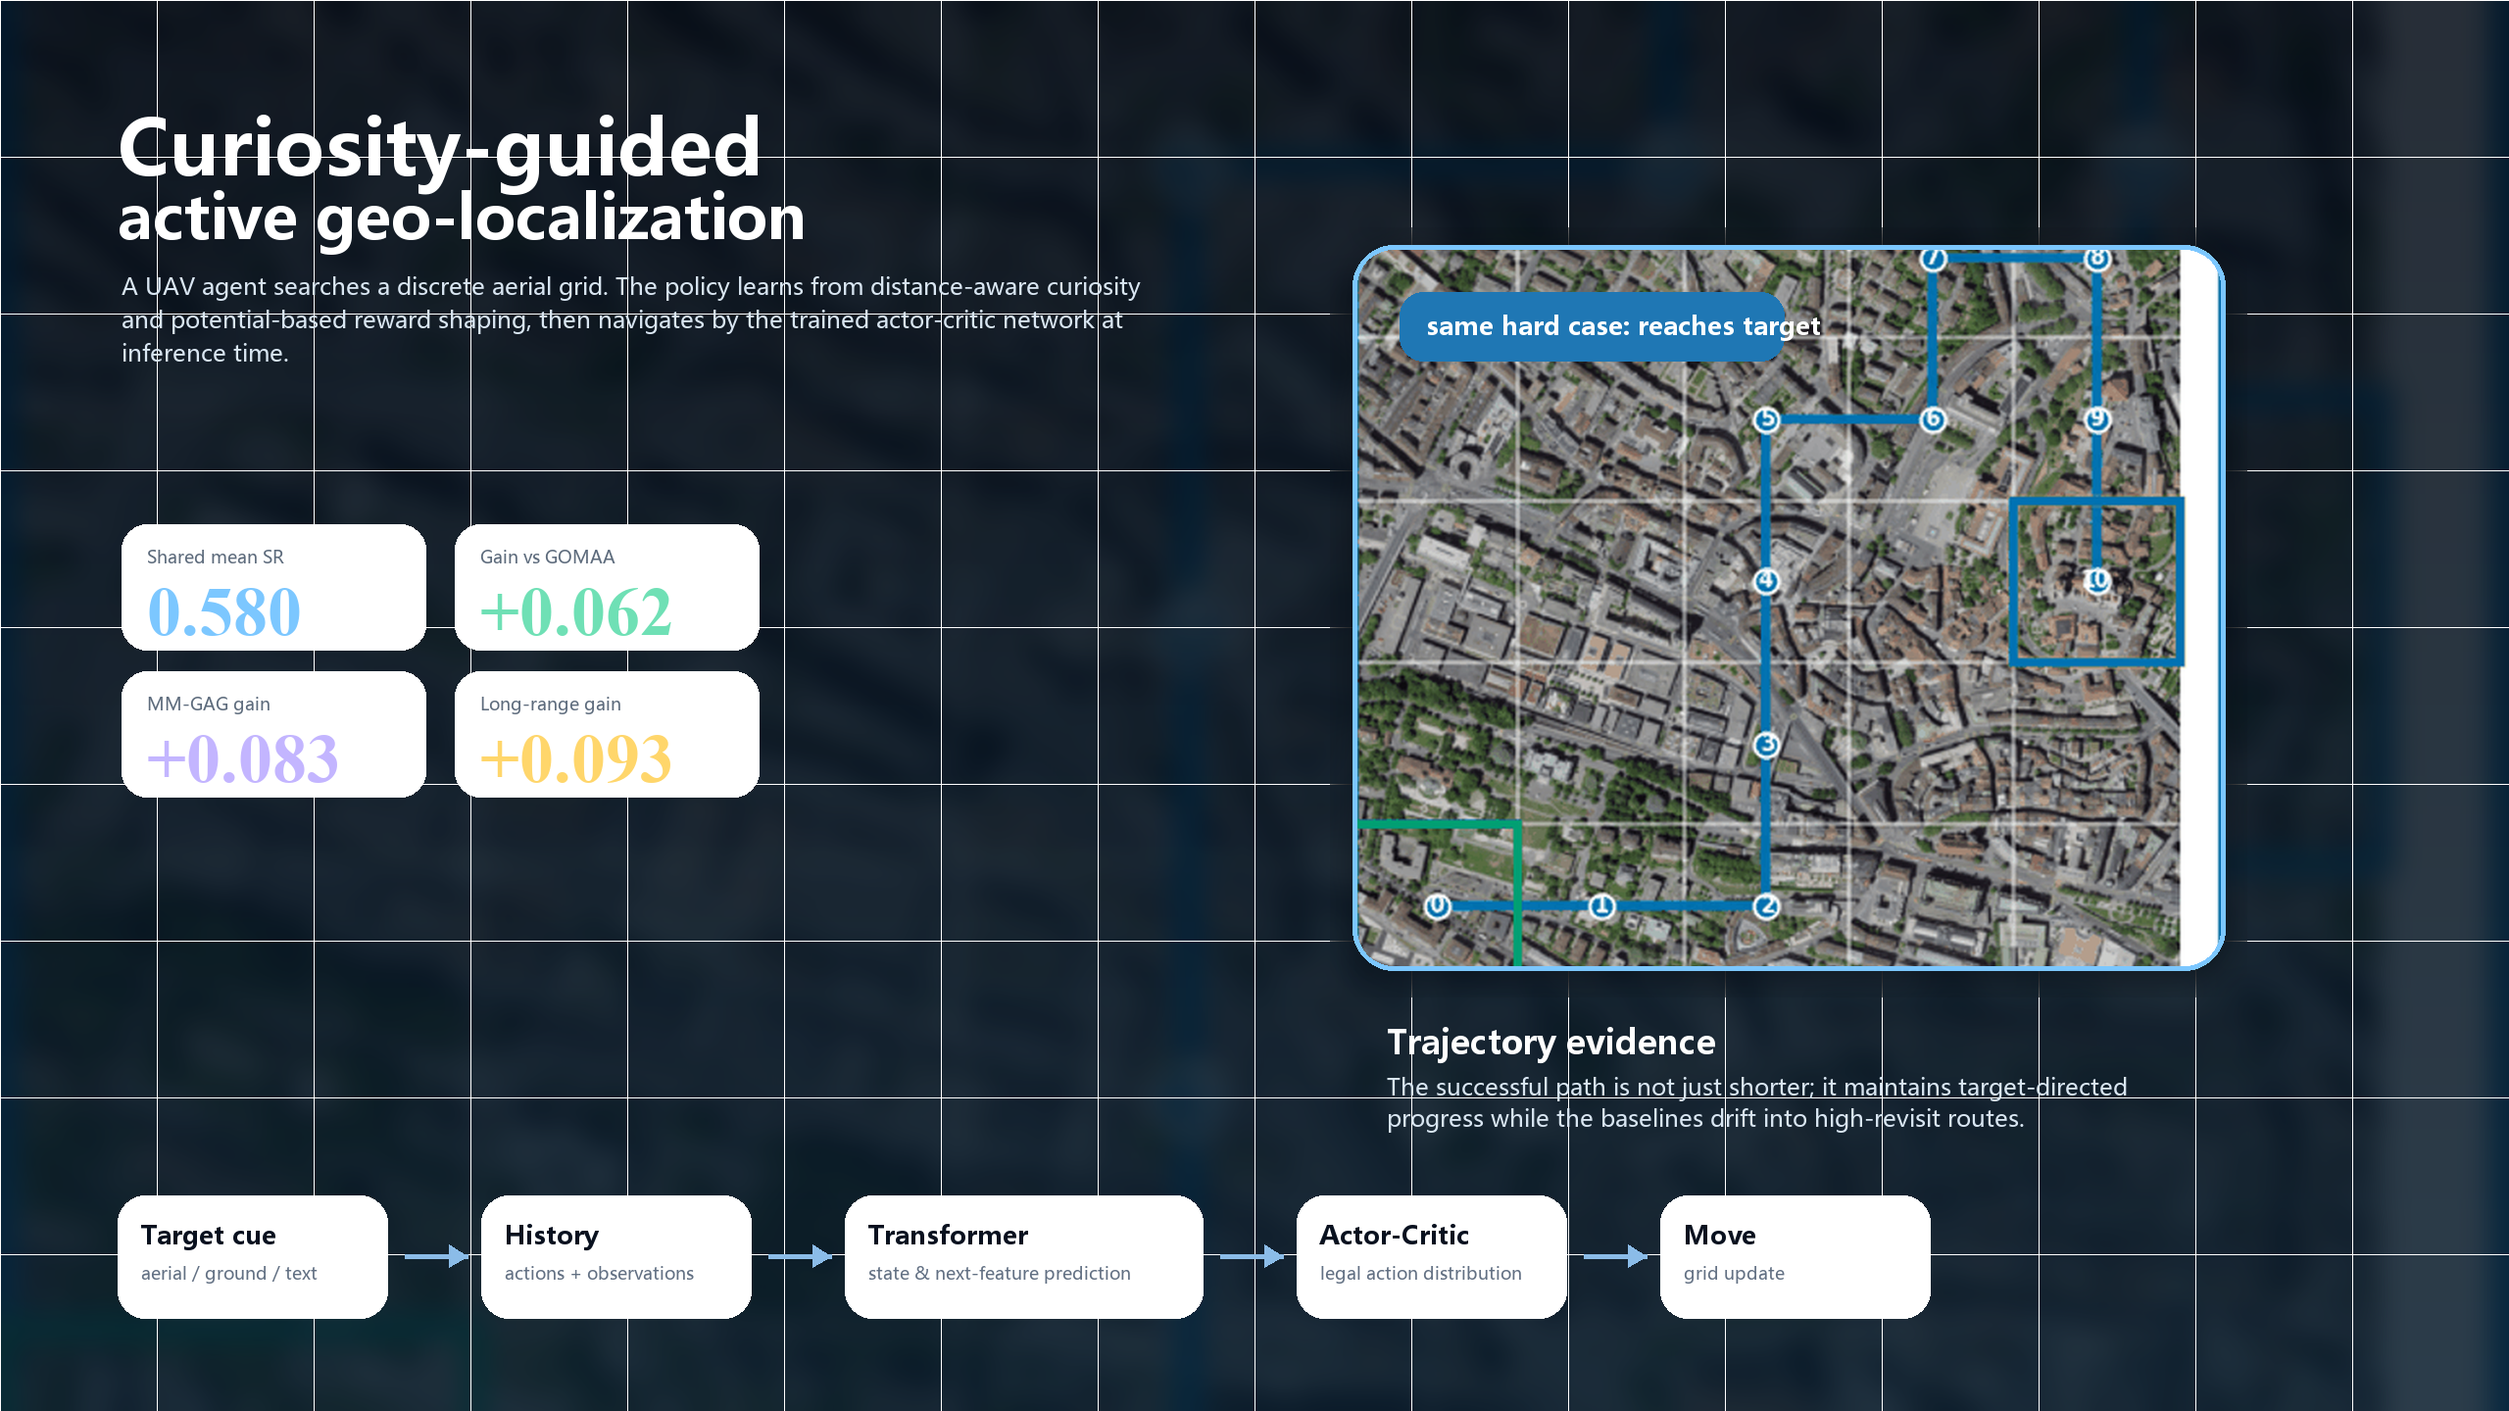
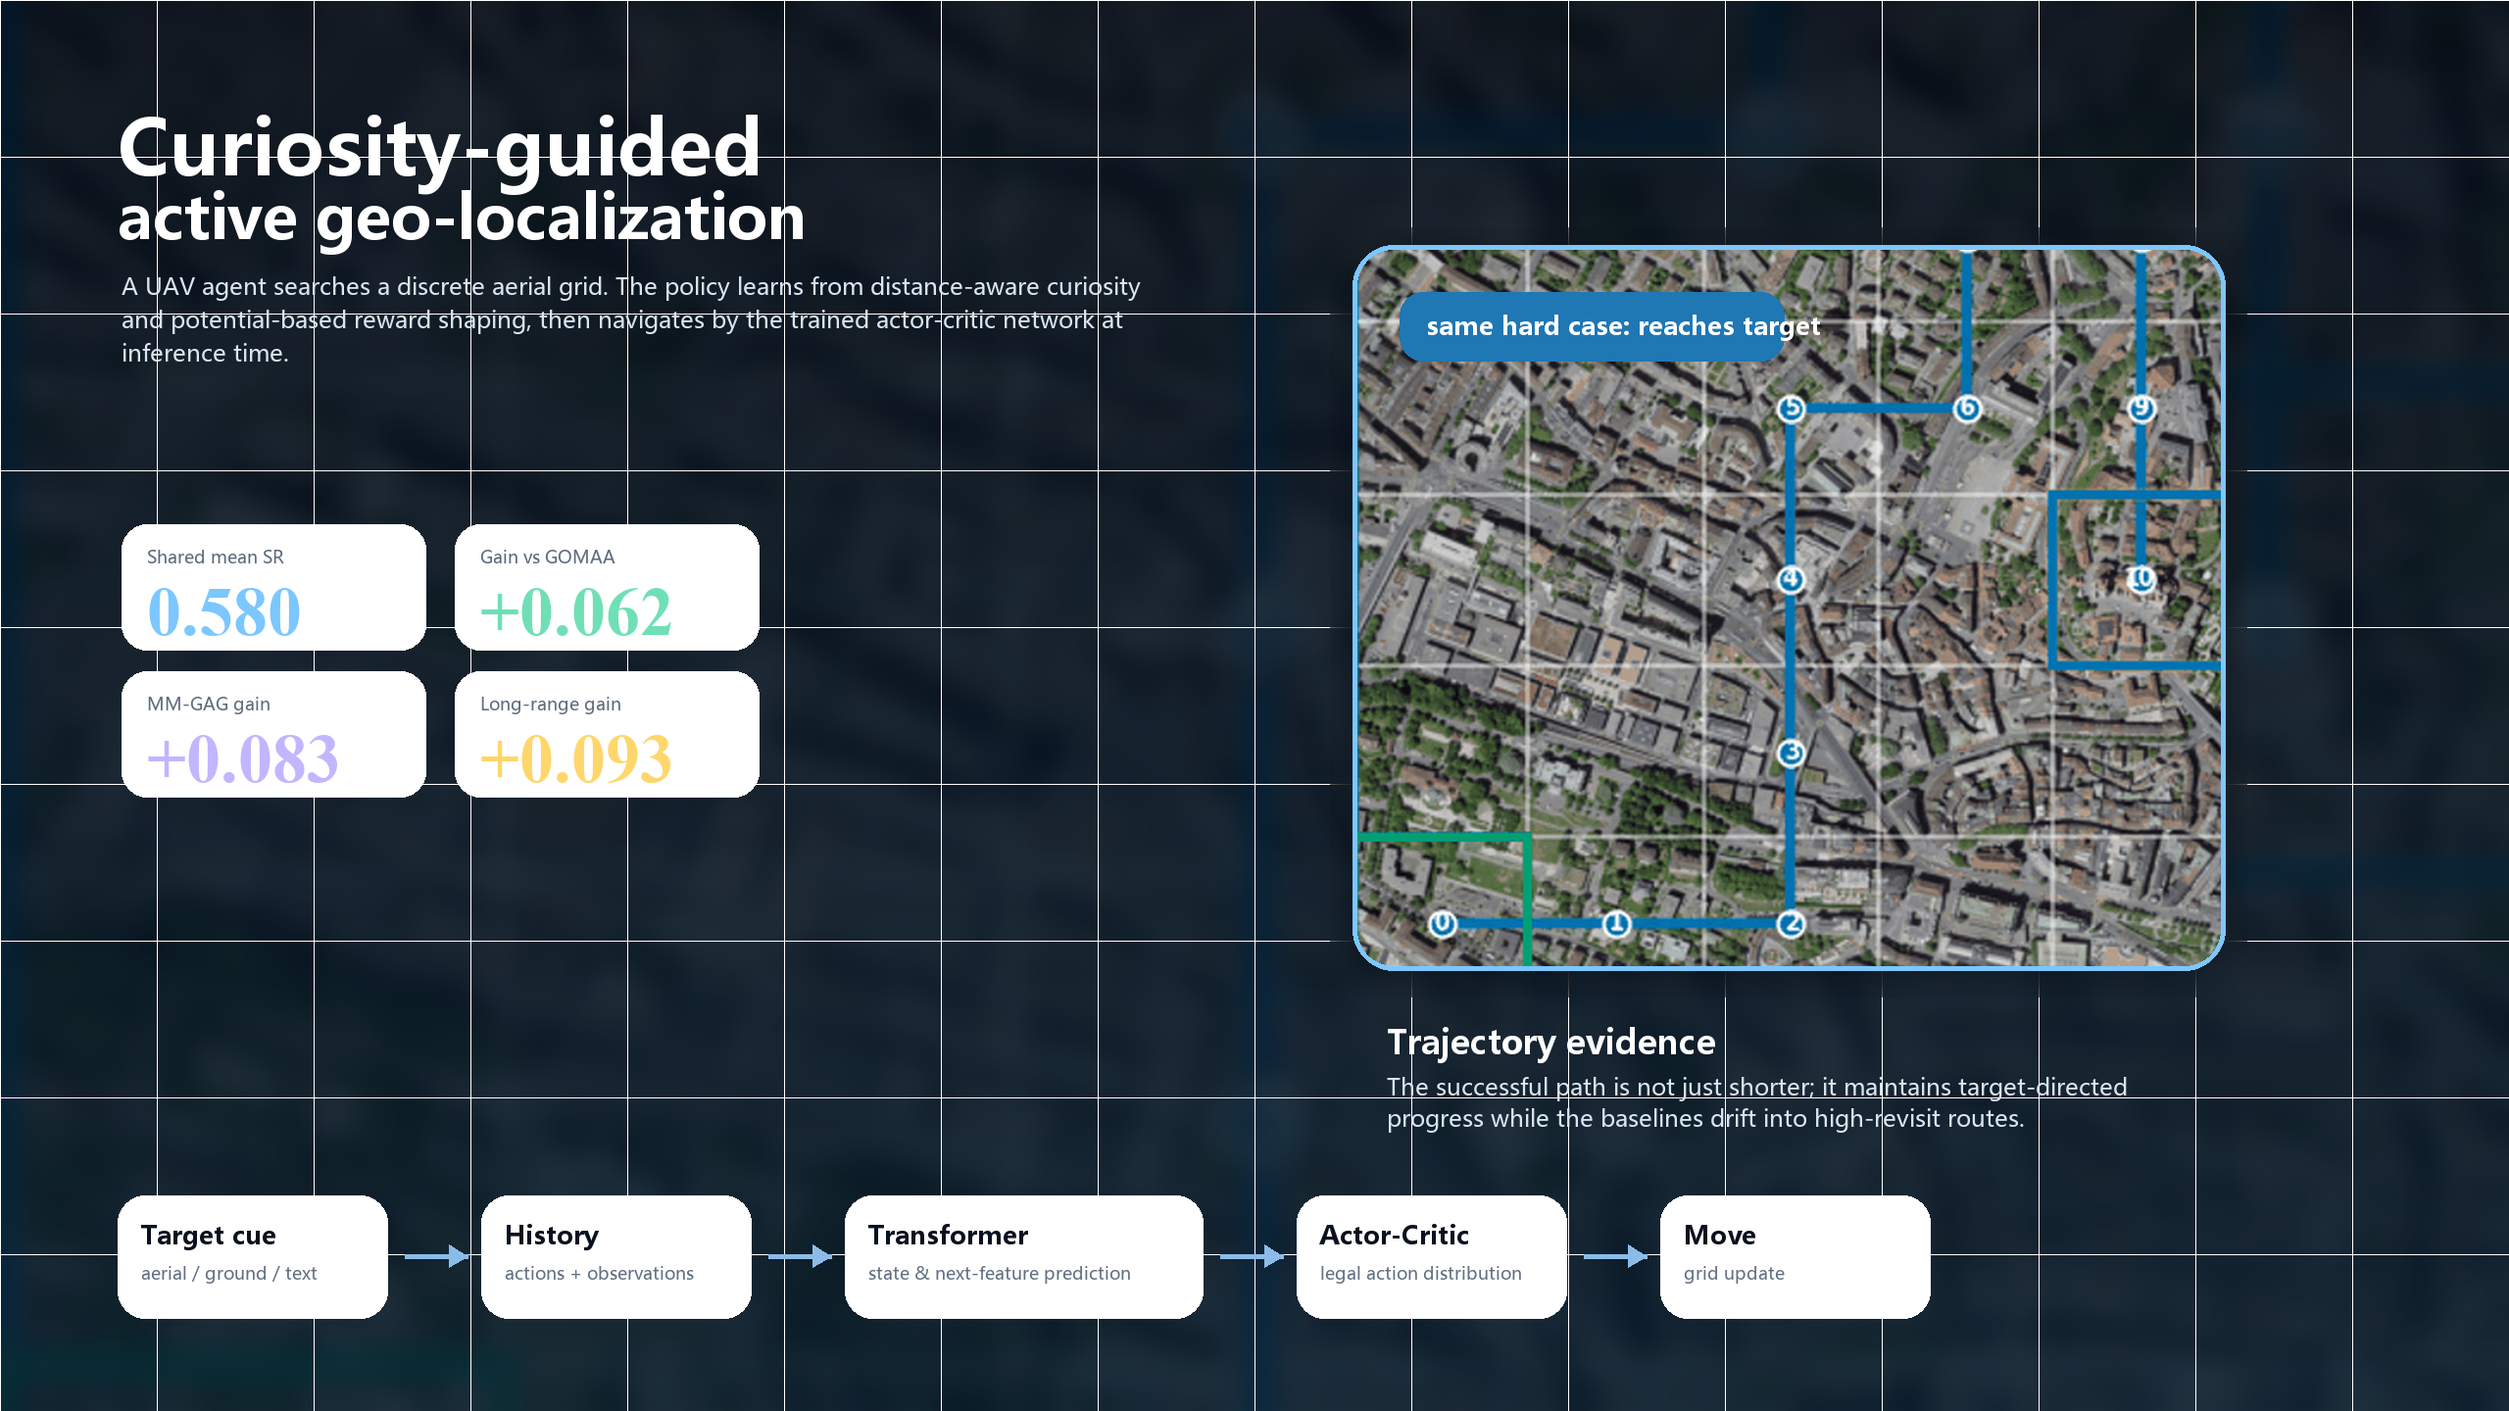
Refine borderless trajectory showcase GIFs

diff --git a/code/tools/build_showcase_experience.py b/code/tools/build_showcase_experience.py
@@ -150,6 +150,17 @@ def fit_contain(im: Image.Image, size: tuple[int, int], bg: str = WHITE) -> Imag
     return out
 
 
+def draw_shadow_text(
+    draw: ImageDraw.ImageDraw,
+    xy: tuple[int, int],
+    text: str,
+    font_obj: ImageFont.ImageFont,
+    fill: str | tuple[int, int, int, int],
+    stroke: int = 2,
+) -> None:
+    draw.text(xy, text, font=font_obj, fill=fill, stroke_width=stroke, stroke_fill=(0, 0, 0, 185))
+
+
 def draw_wrapped(
     draw: ImageDraw.ImageDraw,
     xy: tuple[int, int],
@@ -212,7 +223,7 @@ def load_gif_frames(base: str, suffix: str) -> tuple[list[Image.Image], int]:
 def crop_map_frame(frame: Image.Image) -> Image.Image:
     # The source GIF includes a white title band and border.  Cropping keeps the
     # meaningful aerial evidence and lets the new layout own the labels.
-    return frame.crop((102, 112, 638, 582))
+    return frame.crop((102, 112, 608, 582))
 
 
 def first_last_frames(base: str) -> dict[str, Image.Image]:
@@ -499,29 +510,27 @@ def build_evidence_wall() -> None:
 
 def build_trajectory_storyboard(base: str = "three_method_hardcase__img189_d6_s20_g14_r0") -> None:
     frames = first_last_frames(base)
-    canvas = gradient_bg((2400, 1350), "#08101D", "#173247")
+    canvas = gradient_bg((2400, 1040), "#07101D", "#142A3D")
     draw = ImageDraw.Draw(canvas)
-    draw.text((95, 62), "One hard case, three behaviors", font=F["h1"], fill=WHITE)
-    draw.text((100, 130), "Same start, same target, same search budget.  The difference is the learned directionality of the policy.", font=F["body"], fill="#C8D6E4")
-    panel_w, panel_h = 660, 635
-    xs = [110, 870, 1630]
-    for x, (suffix, label, color, outcome) in zip(xs, METHODS):
-        paste_round(canvas, frames[f"{suffix}_last"], (x, 250), (panel_w, panel_h), radius=36, border=color, border_width=6)
-        draw.rounded_rectangle((x + 28, 278, x + 300, 338), radius=20, fill=color)
-        draw.text((x + 52, 294), label, font=F["h3"], fill=WHITE)
+    draw.text((88, 58), "One hard case, three behaviors", font=F["h1"], fill=WHITE)
+    draw.text((92, 126), "Same start, same target, same budget.  Labels stay inside the imagery; no cards, no outer frame.", font=F["body"], fill="#C8D6E4")
+    panel_w, panel_h = 730, 685
+    start_x, y0 = 105, 235
+    for j, (suffix, label, color, outcome) in enumerate(METHODS):
+        x = start_x + j * panel_w
+        panel = fit_cover(frames[f"{suffix}_last"], (panel_w, panel_h)).convert("RGBA")
+        canvas.alpha_composite(panel, (x, y0))
+        if j:
+            draw.rectangle((x - 3, y0, x + 3, y0 + panel_h), fill=(4, 10, 18, 210))
+        draw.rectangle((x, y0, x + 8, y0 + panel_h), fill=color)
+        draw_shadow_text(draw, (x + 34, y0 + 32), label, F["h2"], WHITE, stroke=3)
         badge = "target reached" if suffix == "anchor0624" else outcome
-        draw.rounded_rectangle((x + 28, 912, x + panel_w - 28, 1002), radius=24, fill=(255, 255, 255, 35), outline=(255, 255, 255, 70), width=2)
-        draw.text((x + 58, 938), badge, font=F["h2"], fill=color)
-    draw.rounded_rectangle((120, 1100, 2280, 1245), radius=36, fill=(255, 255, 255, 235), outline=(255, 255, 255, 80), width=2)
-    draw.text((165, 1135), "Reading guide", font=F["h2"], fill=INK)
-    draw_wrapped(
-        draw,
-        (465, 1136),
-        "Green box = start, yellow box = goal, numbered markers = search order.  The successful policy keeps moving toward the target while baselines spend budget on detours.",
-        F["body"],
-        "#293649",
-        1710,
-        line_gap=6,
+        draw_shadow_text(draw, (x + 34, y0 + panel_h - 70), badge, F["h2"], color, stroke=3)
+    draw.text(
+        (105, 950),
+        "Green=start, yellow=goal, numbered markers=search order.  The useful comparison is the path itself, so the layout avoids white cards and decorative borders.",
+        font=F["body"],
+        fill="#C8D6E4",
     )
     canvas.convert("RGB").save(EXP_DIR / "trajectory_storyboard_experience.png", quality=95)
 
@@ -534,7 +543,7 @@ def theater_frame(
     title: str,
 ) -> Image.Image:
     panel_w, panel_h = 528, 520
-    gutter = 6
+    gutter = 0
     canvas = Image.new("RGBA", (panel_w * 3 + gutter * 2, panel_h), "#07101D")
     draw = ImageDraw.Draw(canvas)
 
@@ -543,15 +552,14 @@ def theater_frame(
         frame = crop_map_frame(loaded[j][min(i, len(loaded[j]) - 1)])
         panel = fit_cover(frame, (panel_w, panel_h))
         canvas.alpha_composite(panel.convert("RGBA"), (x0, 0))
-        # Tiny in-image overlays only: no external boxes, no large white cards.
-        draw.rectangle((x0, 0, x0 + panel_w, 44), fill=(6, 12, 20, 118))
-        draw.text((x0 + 14, 10), label, font=font(20, bold=True), fill=WHITE)
-        draw.text((x0 + panel_w - 112, 12), f"step {i:02d}/{n - 1:02d}", font=F["tiny"], fill="#DDEAF5")
+        if j:
+            draw.rectangle((x0 - 2, 0, x0 + 2, panel_h), fill=(4, 10, 18, 210))
+        # Text is burned into the image instead of being placed in cards.
+        draw_shadow_text(draw, (x0 + 16, 12), label, font(22, bold=True), WHITE, stroke=2)
+        draw_shadow_text(draw, (x0 + panel_w - 116, 14), f"step {i:02d}/{n - 1:02d}", F["tiny"], "#EAF3FB", stroke=2)
         status = "success" if suffix == "anchor0624" and i == n - 1 else (outcome if i == n - 1 else "searching")
         meta = f"{status} | C=6 | img=189 | step={i}/{n - 1}"
-        meta_w = min(panel_w - 24, int(draw.textlength(meta, font=F["tiny"])) + 18)
-        draw.rectangle((x0 + 10, panel_h - 31, x0 + 10 + meta_w, panel_h - 8), fill=(245, 247, 244, 178))
-        draw.text((x0 + 18, panel_h - 29), meta, font=F["tiny"], fill="#1F2D3D")
+        draw_shadow_text(draw, (x0 + 16, panel_h - 30), meta, F["tiny"], "#F2F7FA", stroke=2)
 
     # Ultra-thin progress indicator, kept inside the image instead of adding a
     # separate caption area.

diff --git a/code/tools/build_polished_showcase.py b/code/tools/build_polished_showcase.py
@@ -693,18 +693,34 @@ def _fit_cover(im: Image.Image, size: tuple[int, int]) -> Image.Image:
     return resized.crop((left, top, left + tw, top + th))
 
 
+def _crop_map_frame(frame: Image.Image) -> Image.Image:
+    # Source GIFs include a white title band and figure border.  The showcase
+    # triptych should compare paths directly, so keep only the map evidence.
+    return frame.crop((102, 112, 608, 582))
+
+
+def _draw_shadow_text(
+    draw: ImageDraw.ImageDraw,
+    xy: tuple[int, int],
+    text: str,
+    font_obj: ImageFont.ImageFont,
+    fill: str | tuple[int, int, int, int],
+    stroke: int = 2,
+) -> None:
+    draw.text(xy, text, font=font_obj, fill=fill, stroke_width=stroke, stroke_fill=(0, 0, 0, 185))
+
+
 def build_triptych_gifs() -> None:
     gif_dir = SHOWCASE_DIR / "trajectories" / "gifs"
     if not gif_dir.exists():
         return
 
-    label_font = _load_font(36, bold=True)
-    small_font = _load_font(20, bold=False)
-    title_font = _load_font(30, bold=True)
+    label_font = _load_font(22, bold=True)
+    small_font = _load_font(15, bold=False)
     methods = [
-        ("anchor0624", "Ours", BLUE),
-        ("gomaa", "GOMAA-Geo", ORANGE),
-        ("pristine", "GeoExplorer", GRAY),
+        ("anchor0624", "Ours", BLUE, "success"),
+        ("gomaa", "GOMAA-Geo", ORANGE, "misses target"),
+        ("pristine", "GeoExplorer", GREEN, "drifts away"),
     ]
 
     base_names = sorted(
@@ -717,38 +733,35 @@ def build_triptych_gifs() -> None:
     for base in base_names:
         loaded = []
         durations = []
-        for suffix, _, _ in methods:
+        for suffix, _, _, _ in methods:
             frames, duration = _read_gif_frames(gif_dir / f"{base}__{suffix}.gif")
             loaded.append(frames)
             durations.append(duration)
         n = max(len(frames) for frames in loaded)
-        panel_size = (620, 585)
-        gutter = 28
-        margin = 44
-        header = 160
-        footer = 54
-        canvas_size = (margin * 2 + panel_size[0] * 3 + gutter * 2, header + panel_size[1] + footer)
+        panel_w, panel_h = 528, 520
+        canvas_size = (panel_w * 3, panel_h)
         duration = int(np.median(durations))
         frames_out: list[Image.Image] = []
         for i in range(n):
-            canvas = Image.new("RGB", canvas_size, "#F8F7F2")
+            canvas = Image.new("RGBA", canvas_size, "#07101D")
             draw = ImageDraw.Draw(canvas)
-            draw.rounded_rectangle((14, 14, canvas_size[0] - 14, canvas_size[1] - 14), radius=28, fill="#FFFDF7", outline="#E2DED4", width=2)
-            draw.text((margin, 28), "Synchronized trajectory replay", font=title_font, fill=INK)
-            draw.text((margin, 68), base.replace("__", "  |  ").replace("_", " "), font=small_font, fill=MUTED)
-            draw.text((canvas_size[0] - 210, 42), f"step {i + 1:02d}/{n:02d}", font=small_font, fill=BLUE)
-            for j, (suffix, label, color) in enumerate(methods):
-                x0 = margin + j * (panel_size[0] + gutter)
-                y0 = header
+            for j, (suffix, label, color, outcome) in enumerate(methods):
+                x0 = j * panel_w
                 src_frames = loaded[j]
-                frame = src_frames[min(i, len(src_frames) - 1)]
-                panel = _fit_cover(frame, panel_size)
-                draw.rounded_rectangle((x0, y0 - 54, x0 + panel_size[0], y0 - 10), radius=16, fill=color)
-                draw.text((x0 + 22, y0 - 48), label, font=label_font, fill="white")
-                canvas.paste(panel.convert("RGB"), (x0, y0))
-                draw.rounded_rectangle((x0, y0, x0 + panel_size[0], y0 + panel_size[1]), radius=16, outline=color, width=5)
-            draw.text((margin, canvas_size[1] - 38), "Green=start, yellow=goal, numbered markers=search order. Composite GIF uses aligned frames for direct method comparison.", font=small_font, fill=MUTED)
-            frames_out.append(canvas)
+                frame = _crop_map_frame(src_frames[min(i, len(src_frames) - 1)])
+                panel = _fit_cover(frame, (panel_w, panel_h)).convert("RGBA")
+                canvas.alpha_composite(panel, (x0, 0))
+                if j:
+                    draw.rectangle((x0 - 2, 0, x0 + 2, panel_h), fill=(4, 10, 18, 210))
+                draw.rectangle((x0, 0, x0 + 6, panel_h), fill=color)
+                _draw_shadow_text(draw, (x0 + 16, 12), label, label_font, "white", stroke=2)
+                _draw_shadow_text(draw, (x0 + panel_w - 116, 14), f"step {i:02d}/{n - 1:02d}", small_font, "#EAF3FB", stroke=2)
+                status = outcome if i == n - 1 else "searching"
+                meta = f"{status} | C=6 | img=189 | step={i}/{n - 1}"
+                _draw_shadow_text(draw, (x0 + 16, panel_h - 30), meta, small_font, "#F2F7FA", stroke=2)
+            draw.rectangle((0, panel_h - 4, canvas_size[0], panel_h), fill=(5, 10, 18, 160))
+            draw.rectangle((0, panel_h - 4, int(canvas_size[0] * i / max(1, n - 1)), panel_h), fill=BLUE)
+            frames_out.append(canvas.convert("P", palette=Image.Palette.ADAPTIVE, colors=128))
 
         out = TRIPTYCH_DIR / f"{base}__triptych.gif"
         frames_out[0].save(
@@ -776,7 +789,7 @@ def write_manifest() -> None:
     )
     manifest = {
         "generated_by": "code/tools/build_polished_showcase.py",
-        "style": "editorial scientific cards, synchronized triptych GIFs",
+        "style": "editorial scientific cards, borderless synchronized triptych GIFs",
         "file_count": len(files),
         "files": files,
     }

diff --git a/docs/visualization_gallery_zh.md b/docs/visualization_gallery_zh.md
@@ -91,7 +91,7 @@ python code/tools/build_visual_showcase.py
 
 ## 同步三联动图
 
-三联动图将同一案例下的 Ours、GOMAA-Geo 和 GeoExplorer 轨迹同步放在一张 GIF 中。每一帧共享统一标题、方法标签、边框和步数标记，适合项目首页、答辩页和补充材料快速展示。
+三联动图将同一案例下的 Ours、GOMAA-Geo 和 GeoExplorer 轨迹同步放在一张 GIF 中。新版采用无白底、无卡片、无外边框的贴边拼接，只保留图内方法名、步数和极细进度线，适合项目首页、答辩页和补充材料快速展示。
 
 <p align="center">
   <img src="../results/figures/showcase/trajectories/triptych_gifs/three_method_hardcase__img189_d6_s20_g14_r0__triptych.gif" width="100%" alt="hardcase triptych gif">

diff --git a/results/figures/showcase/README.md b/results/figures/showcase/README.md
@@ -9,7 +9,7 @@ This directory contains the visual evidence package used by the GitHub README an
 - `polished/`: high-impact 16:9 scientific figure cards used by the README.
 - `dataset/`: copied dataset, method, and chapter trajectory overview figures.
 - `trajectories/gifs/`: 21 animated trajectory cases.
-- `trajectories/triptych_gifs/`: 7 synchronized three-method GIFs for direct visual comparison.
+- `trajectories/triptych_gifs/`: 7 borderless synchronized three-method GIFs for direct visual comparison.
 - `trajectories/comparison_png/`: 7 static method-comparison trajectory figures.
 - `trajectories/static_png/`: 21 single-method static trajectory figures.
 - `reward_story/`: reward-mechanism figures and one reward replay GIF.
